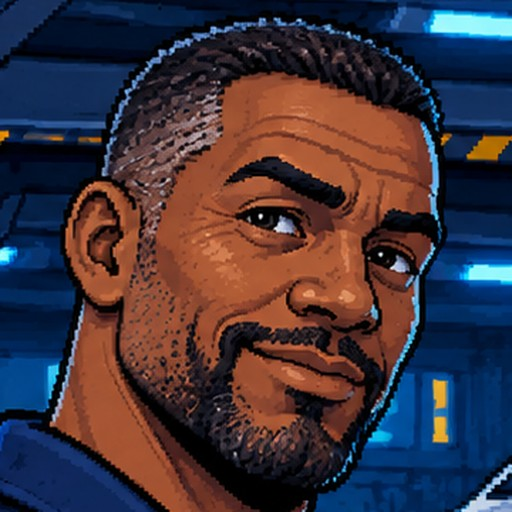
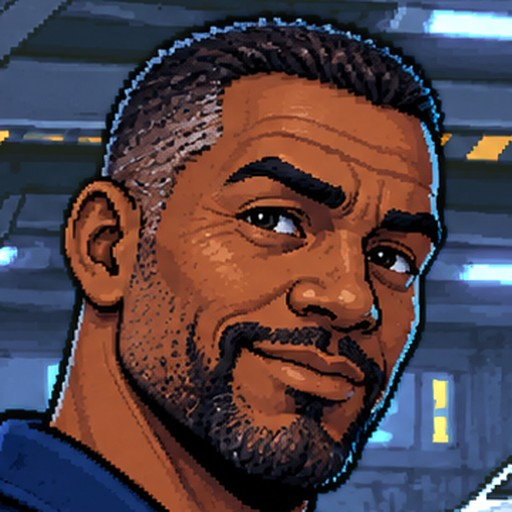
Crew scenes: backgrounds matched to their rooms (figure masks, Lab mean and spread)
Claude-Session: https://claude.ai/code/session_01QsU1qWh9Lm4CoQ2smq7FHb

diff --git a/tools/crew_art.py b/tools/crew_art.py
@@ -2,18 +2,38 @@
 """Crew pictures (owner's art in art_src/crew/<crewId>_scene.png) -> the game's files in tablet/retro/assets/crew/:
   <id>_scene_original.jpg (1024x765, the 90s dialogue screen), <id>_scene.png (320x240 palette copy),
   <id>_original.jpg (512x512 face for the crew list), <id>.png (64x64 palette copy).
-FACE: the square crop of the face, in source pixels (left, top, size).   python3 tools/crew_art.py [crewId ...]"""
+FACE: the square crop of the face, in source pixels (left, top, size).   python3 tools/crew_art.py [crewId ...]
+ROOM (owner, 2026-11-27: the portraits should look like they are in their rooms): the background (everything outside the figure) is shifted
+toward the room picture's brightness and colour (CIE Lab mean and spread, strength BG_STRENGTH); the figure keeps its own colours.
+The figure mask is art_src/crew/<id>_mask.png (white = figure), made once with rembg (isnet-general-use); a new picture needs a new mask."""
 import os, sys, json
 from PIL import Image
 ROOT = os.path.dirname(os.path.dirname(os.path.abspath(__file__)))
 SRC, OUT = os.path.join(ROOT, 'art_src', 'crew'), os.path.join(ROOT, 'tablet', 'retro', 'assets', 'crew')
 FACE = { 'helm': (330, 110, 400), 'executiveOfficer': (60, 120, 720), 'science': (560, 20, 300), 'engineering': (560, 60, 380), 'security': (920, 40, 360) }   # helm: the over-the-shoulder picture of 2026-11-27 (the first one is helm_scene_v1.png)
+ROOM = { 'helm': 'bridge_original.png', 'engineering': 'engineering_original.jpg', 'security': 'launchbay_original.jpg' }
+BG_STRENGTH = 0.7
+def room_match(im, cid):
+    import numpy as np
+    from PIL import ImageFilter
+    sys.path.insert(0, os.path.dirname(os.path.abspath(__file__))); import even_palette as ep
+    mpath = os.path.join(SRC, f'{cid}_mask.png')
+    if cid not in ROOM or not os.path.exists(mpath): return im
+    _, rr, ra = ep.load(os.path.join(ROOT, 'tablet', 'retro', 'assets', ROOM[cid])); rl = ep.to_lab(rr)[ra > 8]
+    rgb = np.array(im).astype(float); lab = ep.to_lab(rgb)
+    m = np.array(Image.open(mpath).convert('L').resize(im.size).filter(ImageFilter.GaussianBlur(1.5))).astype(float) / 255
+    bg = 1 - m; sel = bg > 0.5; out = lab.copy()
+    for k in range(3):   # mean and spread; the spread is not raised much (a plain backdrop would turn to noise)
+        v = lab[..., k][sel]; rv = rl[:, k]; sc = min(1.25 if k == 0 else 1.0, rv.std() / max(1e-6, v.std()))
+        out[..., k] = lab[..., k] + ((lab[..., k] - v.mean()) * sc + rv.mean() - lab[..., k]) * BG_STRENGTH
+    res = rgb * m[..., None] + ep.to_rgb(out).astype(float) * bg[..., None]
+    return Image.fromarray(res.clip(0, 255).astype(np.uint8))
 def snap(img):
     d = json.load(open(os.path.join(ROOT, 'data', 'palette.json'))); c = d if isinstance(d, list) else d.get('colors', d)
     pal = [tuple(int(h[i:i + 2], 16) for i in (1, 3, 5)) for h in c]; flat = [v for p in pal for v in p]; flat += flat[:3] * (256 - len(pal))
     pi = Image.new('P', (1, 1)); pi.putpalette(flat); return img.quantize(palette=pi, dither=Image.NONE).convert('RGB')
 for cid in sys.argv[1:] or FACE:
-    im = Image.open(os.path.join(SRC, f'{cid}_scene.png')).convert('RGB')
+    im = room_match(Image.open(os.path.join(SRC, f'{cid}_scene.png')).convert('RGB'), cid)
     im.resize((1024, 765), Image.LANCZOS).save(os.path.join(OUT, f'{cid}_scene_original.jpg'), quality=90, optimize=True)
     snap(im.resize((320, 240), Image.LANCZOS)).save(os.path.join(OUT, f'{cid}_scene.png'))
     x, y, n = FACE[cid]; face = im.crop((x, y, x + n, y + n))

diff --git a/docs/HANDOFF.md b/docs/HANDOFF.md
@@ -1,6 +1,6 @@
 # Handoff (read this first when a session starts; update it before parking)
 
-Last updated: 2026-11-27. Branch to work on: `tablet`. Repo: NickWest27/AquaNova (GitHub Pages path `/AquaNova/`). Last change: new crew scene pictures (Marcus over the shoulder, replacing the first one, kept as `art_src/crew/helm_scene_v1.png`; Chief Doyle; Lt. Washington), made by `tools/crew_art.py`; text box per picture in `SCENE_BOX` (Marcus right but short of his hand, Washington left, Doyle across the bottom with the choices in two columns). Before that desk pads are banks of five (range buttons gone, the yellow keys do range; SNR contact buttons Scan, Probe, Clear moved to the right pad, Investigate renamed Probe; the Sensors station keeps its own − RANGE +). Open: the left pad still has six pages (TAC is a stub). Before that bridge desk (owner, 2026-11-27): the three desk pads are warped to the slant of their holes; DSP moved from the right pad to the round trackpad (lamp lit while on); the two yellow keys left of the centre display are RANGE + / − with the signs printed on; the overhead panel carries the status (position, date, time, BAT) and the screen-edge strip is hidden on the bridge; before that sound board in the PED (Settings > Sound > Sound board opens it full screen over the game; the buttons live in `tablet/js/soundboardKit.js`, shared with the stand-alone page `tablet/soundboard.html`, published at `.../AquaNova/tablet/tablet/soundboard.html`: note the double `tablet`); before that sound board for the owner (every sound in sfx.js and the theme on a button, rename and Copy names); before that NEW BRIDGE FRAME (the owner's picture of 2026-11-27, 1024x765, holes cut from its painted checkerboard; source `art_src/rooms/bridge_original.png`, colour-matched by `tools/even_palette.py`, Retro copy snapped from it). Marcus at the centre helm (tap him to talk; his left monitor opens the Helm station; his two small monitors show heading/speed and depth/floor), Nicole left, Alex right. The three desk pads are one row each: HLM's depth and cruise buttons moved to the right pad. The status strip moves to the top on the bridge (`body.on-bridge`). Walkway exit: bottom-left corner. Before that: 16-bit sound effects library (`tablet/js/sfx.js`, 32 sounds; previews `docs/audio/sfx/`, reel `docs/audio/sfx_reel.mp3` + `.txt`, rendered by `tools/render_sfx.py`; Effects slider in PED Settings). Wired: general alarm, impact/crash, fire and flooding alarms, super cruise power-up and engage, emergency blow, sonar sweep ping, doors between rooms, the engine room loop, radio squelch when the communicator opens; before that short crew lines show as notices on the bridge's overhead console (two lines, whole panel); ARIA's hints wait at least a minute; bigger overhead and nav log text; the vertical profile uses the nav screen's colours (warning yellow and red kept); before that every crew message opens the dialogue (hints, reports, objective lines); only the reply to a button press (`tell()`) and action ticks stay a short line at the foot of the screen (notify.js); before that main title "Beneath the Waves" (original, 16-bit style, `tablet/js/theme.js`; PED Settings > Play theme; render with `tools/render_theme.py` to `docs/audio/aqua_nova_theme.mp3`); before that the communicator never replaces what the Captain is reading: new lines wait behind "Continue" (crew.js readTo); before that fixed Restart from the beginning (a new game was no longer recognised because 'pick up the communicator' now starts as waiting; `commsLocked` in app.js; test `tools/restart_test.py`); before that no discovery notes in the logbook (arrivals to the PED Journal, records to PED Findings); before that one task at a time (objective status 'waiting' until the step before is done; follow-on missions start after a short saved pause; the PED shows done steps, the current one and how many are to come); super cruise spools up for 8 s and eases in and out, any other power setting drops it; Route editor Edit button and a degrees-and-minutes read-back in the waypoint dialog; the trials escort (OERA Seaward, CGC Vigilant) on AIS; the 300 m depth is a certification step (story bible); before that route planner fix (trips over about 120 nm fell off the search grid and were reported as blocked: `route.js` now grows its cells on long trips; test in `tools/route_test.mjs`); the commissioning orders give the AO's centre point, not its corners; before that walkway A1, walkway AN-1 and medbay back to the colour-matched pictures (a pixel-art rebuild by filter looked smudged; they need redrawing to be as crisp as the launch bay); stray speckles removed from the Retro copies; BRIDGE sign on A1 drawn by the game; before that rooms open with the story and crew join the communicator when their room is visited (`rooms.js`, see `docs/COMMS_AND_PROGRESSION.md`); ARIA's bridge introduction; before that crew renamed (Lt. Andre Washington for security, Chief Engineer Ryan Doyle; see `docs/STORY_BIBLE.md`); the Captain's lines in the communicator are conversational (`SAY` in `stations/crew.js`); Call another station; Take me to my quarters removed; before that communicator menu tidied and First Contact completes on ARIA's introduction (see `docs/HELM_AND_ORDERS.md`); before that portraits and dialogue screens for Marcus, ARIA and Dr. Patel (`tools/crew_art.py`, sources in `art_src/crew/`; text box side per picture: `SCENE_BOX` in art.js); before that room pictures evened out to the Engineering picture's brightness and colour (`tools/even_palette.py`; the untouched originals are in `art_src/rooms/`, outside the served folders: a new room picture goes there first, then run the script, which also remakes the Retro copies); bigger crew tap areas on the bridge; before that the owner's testing list (below, all 18 items); before that the quarters wall screen cycles NAV, synthetic vision, sonar, WSKRs and ship status (`quartersScreen.js`, tap = next page, 10 s each; test `tools/quarters_screen_test.py`); pushing the trials for records with a risk of light damage (`trials.js`); story bible brought up to date; before that Sea Trials became the commissioning trip to the Trials AO (welcome letter in the logbook, commissioning orders by mail, Welcome to the AO mail; nav, eng and super cruise commissioned in steps; see the tutorial table in `docs/COMMS_AND_PROGRESSION.md`); before that the owner's welcome letter in the logbook; before that general alarm (ARIA order + engineering button; red lighting and frames; faster fire/flood response if sounded first; see `docs/ENGINEERING.md`); before that the Engineering room shows the ship's state (core glow amber/red, live console screens, red alarm for fire/flooding; see `docs/ENGINEERING.md`); before that the engineering computer; before that the 90s dialogue screen for Nicole; before that Nicole's portrait; before that walkway AN-1 and Engineering on the owner's pictures (every room is now 4:3); before that site survey (`survey.js`, Survey site on SONAR, Seabed survey missions) and the XO tends Remora before getting under way; before that Remora's tether parts past its length, the Tern fetches her (`tools/tether_test.py`); before that PED, communicator and corner buttons in the 4:3 box; before that Launch Bay as instruments, WSKRs have their own launch bays, standard target readout (`readout.js`), Full sweep 36 s; before that station pages are a 4:3 page (1024 x 768) scaled like the stage; before that pages fit the screen (`tools/fit_test.py`) and Sensors has SONAR and WSKRs only; before that contact tracking (detection chance, names belong to tracks, probable matches, signatures on file: `docs/CONTACT_TRACKING.md`); before that identified ships saved; before that one zoom direction everywhere ("+" zooms in) and round map zoom buttons; before that the bridge original picture with real transparent holes; before that the medbay on the owner's picture (after bridge, walkway A1, quarters, science lab, launch bay).
+Last updated: 2026-11-27. Branch to work on: `tablet`. Repo: NickWest27/AquaNova (GitHub Pages path `/AquaNova/`). Last change: crew scene backgrounds shifted toward their room's colours (bridge, engineering, launch bay; figure kept as drawn; masks `art_src/crew/<id>_mask.png`, `ROOM` and `BG_STRENGTH` in `tools/crew_art.py`). Before that new crew scene pictures (Marcus over the shoulder, replacing the first one, kept as `art_src/crew/helm_scene_v1.png`; Chief Doyle; Lt. Washington), made by `tools/crew_art.py`; text box per picture in `SCENE_BOX` (Marcus right but short of his hand, Washington left, Doyle across the bottom with the choices in two columns). Before that desk pads are banks of five (range buttons gone, the yellow keys do range; SNR contact buttons Scan, Probe, Clear moved to the right pad, Investigate renamed Probe; the Sensors station keeps its own − RANGE +). Open: the left pad still has six pages (TAC is a stub). Before that bridge desk (owner, 2026-11-27): the three desk pads are warped to the slant of their holes; DSP moved from the right pad to the round trackpad (lamp lit while on); the two yellow keys left of the centre display are RANGE + / − with the signs printed on; the overhead panel carries the status (position, date, time, BAT) and the screen-edge strip is hidden on the bridge; before that sound board in the PED (Settings > Sound > Sound board opens it full screen over the game; the buttons live in `tablet/js/soundboardKit.js`, shared with the stand-alone page `tablet/soundboard.html`, published at `.../AquaNova/tablet/tablet/soundboard.html`: note the double `tablet`); before that sound board for the owner (every sound in sfx.js and the theme on a button, rename and Copy names); before that NEW BRIDGE FRAME (the owner's picture of 2026-11-27, 1024x765, holes cut from its painted checkerboard; source `art_src/rooms/bridge_original.png`, colour-matched by `tools/even_palette.py`, Retro copy snapped from it). Marcus at the centre helm (tap him to talk; his left monitor opens the Helm station; his two small monitors show heading/speed and depth/floor), Nicole left, Alex right. The three desk pads are one row each: HLM's depth and cruise buttons moved to the right pad. The status strip moves to the top on the bridge (`body.on-bridge`). Walkway exit: bottom-left corner. Before that: 16-bit sound effects library (`tablet/js/sfx.js`, 32 sounds; previews `docs/audio/sfx/`, reel `docs/audio/sfx_reel.mp3` + `.txt`, rendered by `tools/render_sfx.py`; Effects slider in PED Settings). Wired: general alarm, impact/crash, fire and flooding alarms, super cruise power-up and engage, emergency blow, sonar sweep ping, doors between rooms, the engine room loop, radio squelch when the communicator opens; before that short crew lines show as notices on the bridge's overhead console (two lines, whole panel); ARIA's hints wait at least a minute; bigger overhead and nav log text; the vertical profile uses the nav screen's colours (warning yellow and red kept); before that every crew message opens the dialogue (hints, reports, objective lines); only the reply to a button press (`tell()`) and action ticks stay a short line at the foot of the screen (notify.js); before that main title "Beneath the Waves" (original, 16-bit style, `tablet/js/theme.js`; PED Settings > Play theme; render with `tools/render_theme.py` to `docs/audio/aqua_nova_theme.mp3`); before that the communicator never replaces what the Captain is reading: new lines wait behind "Continue" (crew.js readTo); before that fixed Restart from the beginning (a new game was no longer recognised because 'pick up the communicator' now starts as waiting; `commsLocked` in app.js; test `tools/restart_test.py`); before that no discovery notes in the logbook (arrivals to the PED Journal, records to PED Findings); before that one task at a time (objective status 'waiting' until the step before is done; follow-on missions start after a short saved pause; the PED shows done steps, the current one and how many are to come); super cruise spools up for 8 s and eases in and out, any other power setting drops it; Route editor Edit button and a degrees-and-minutes read-back in the waypoint dialog; the trials escort (OERA Seaward, CGC Vigilant) on AIS; the 300 m depth is a certification step (story bible); before that route planner fix (trips over about 120 nm fell off the search grid and were reported as blocked: `route.js` now grows its cells on long trips; test in `tools/route_test.mjs`); the commissioning orders give the AO's centre point, not its corners; before that walkway A1, walkway AN-1 and medbay back to the colour-matched pictures (a pixel-art rebuild by filter looked smudged; they need redrawing to be as crisp as the launch bay); stray speckles removed from the Retro copies; BRIDGE sign on A1 drawn by the game; before that rooms open with the story and crew join the communicator when their room is visited (`rooms.js`, see `docs/COMMS_AND_PROGRESSION.md`); ARIA's bridge introduction; before that crew renamed (Lt. Andre Washington for security, Chief Engineer Ryan Doyle; see `docs/STORY_BIBLE.md`); the Captain's lines in the communicator are conversational (`SAY` in `stations/crew.js`); Call another station; Take me to my quarters removed; before that communicator menu tidied and First Contact completes on ARIA's introduction (see `docs/HELM_AND_ORDERS.md`); before that portraits and dialogue screens for Marcus, ARIA and Dr. Patel (`tools/crew_art.py`, sources in `art_src/crew/`; text box side per picture: `SCENE_BOX` in art.js); before that room pictures evened out to the Engineering picture's brightness and colour (`tools/even_palette.py`; the untouched originals are in `art_src/rooms/`, outside the served folders: a new room picture goes there first, then run the script, which also remakes the Retro copies); bigger crew tap areas on the bridge; before that the owner's testing list (below, all 18 items); before that the quarters wall screen cycles NAV, synthetic vision, sonar, WSKRs and ship status (`quartersScreen.js`, tap = next page, 10 s each; test `tools/quarters_screen_test.py`); pushing the trials for records with a risk of light damage (`trials.js`); story bible brought up to date; before that Sea Trials became the commissioning trip to the Trials AO (welcome letter in the logbook, commissioning orders by mail, Welcome to the AO mail; nav, eng and super cruise commissioned in steps; see the tutorial table in `docs/COMMS_AND_PROGRESSION.md`); before that the owner's welcome letter in the logbook; before that general alarm (ARIA order + engineering button; red lighting and frames; faster fire/flood response if sounded first; see `docs/ENGINEERING.md`); before that the Engineering room shows the ship's state (core glow amber/red, live console screens, red alarm for fire/flooding; see `docs/ENGINEERING.md`); before that the engineering computer; before that the 90s dialogue screen for Nicole; before that Nicole's portrait; before that walkway AN-1 and Engineering on the owner's pictures (every room is now 4:3); before that site survey (`survey.js`, Survey site on SONAR, Seabed survey missions) and the XO tends Remora before getting under way; before that Remora's tether parts past its length, the Tern fetches her (`tools/tether_test.py`); before that PED, communicator and corner buttons in the 4:3 box; before that Launch Bay as instruments, WSKRs have their own launch bays, standard target readout (`readout.js`), Full sweep 36 s; before that station pages are a 4:3 page (1024 x 768) scaled like the stage; before that pages fit the screen (`tools/fit_test.py`) and Sensors has SONAR and WSKRs only; before that contact tracking (detection chance, names belong to tracks, probable matches, signatures on file: `docs/CONTACT_TRACKING.md`); before that identified ships saved; before that one zoom direction everywhere ("+" zooms in) and round map zoom buttons; before that the bridge original picture with real transparent holes; before that the medbay on the owner's picture (after bridge, walkway A1, quarters, science lab, launch bay).
 
 ## Owner's testing list (2026-11-26): all done 2026-11-27, waiting for the owner to test on the iPad
 Rooms and signs
